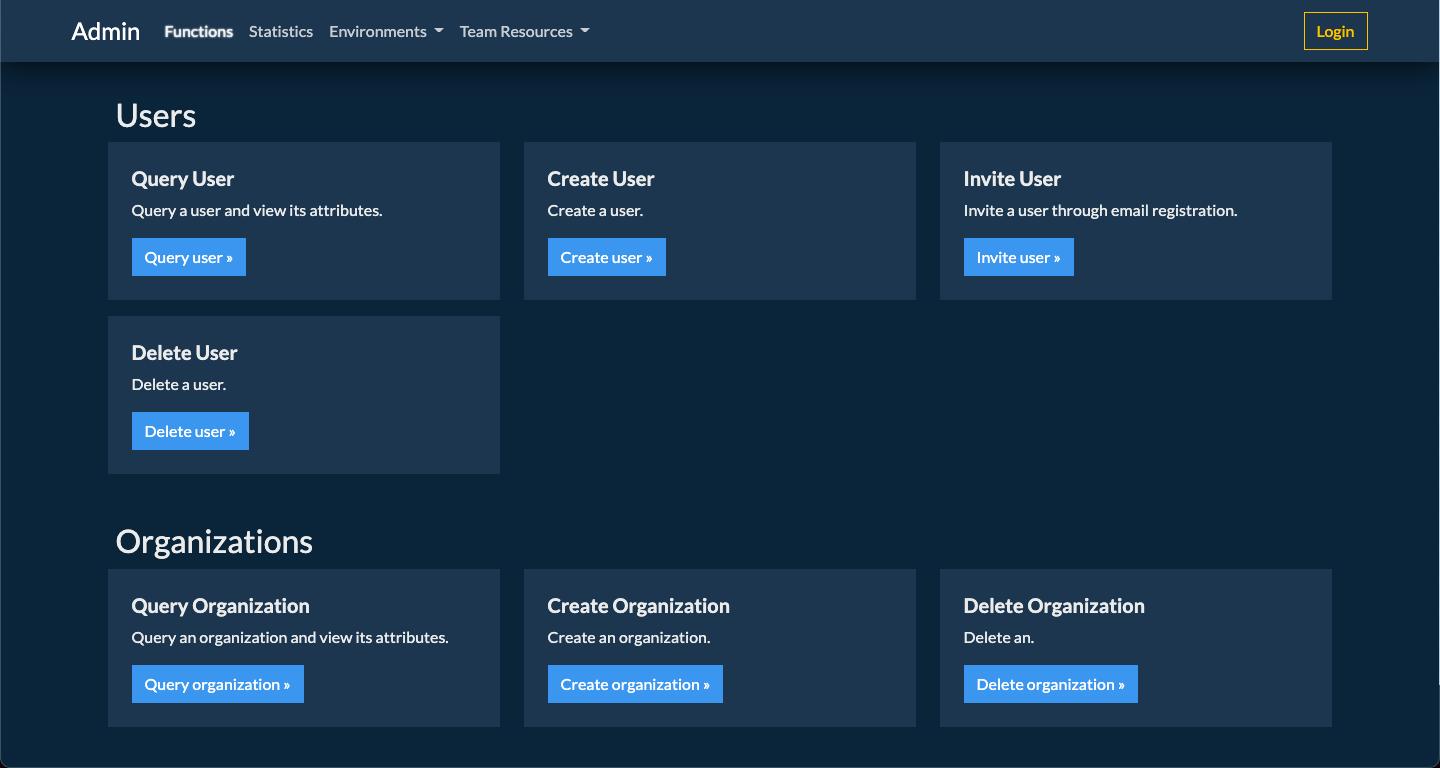
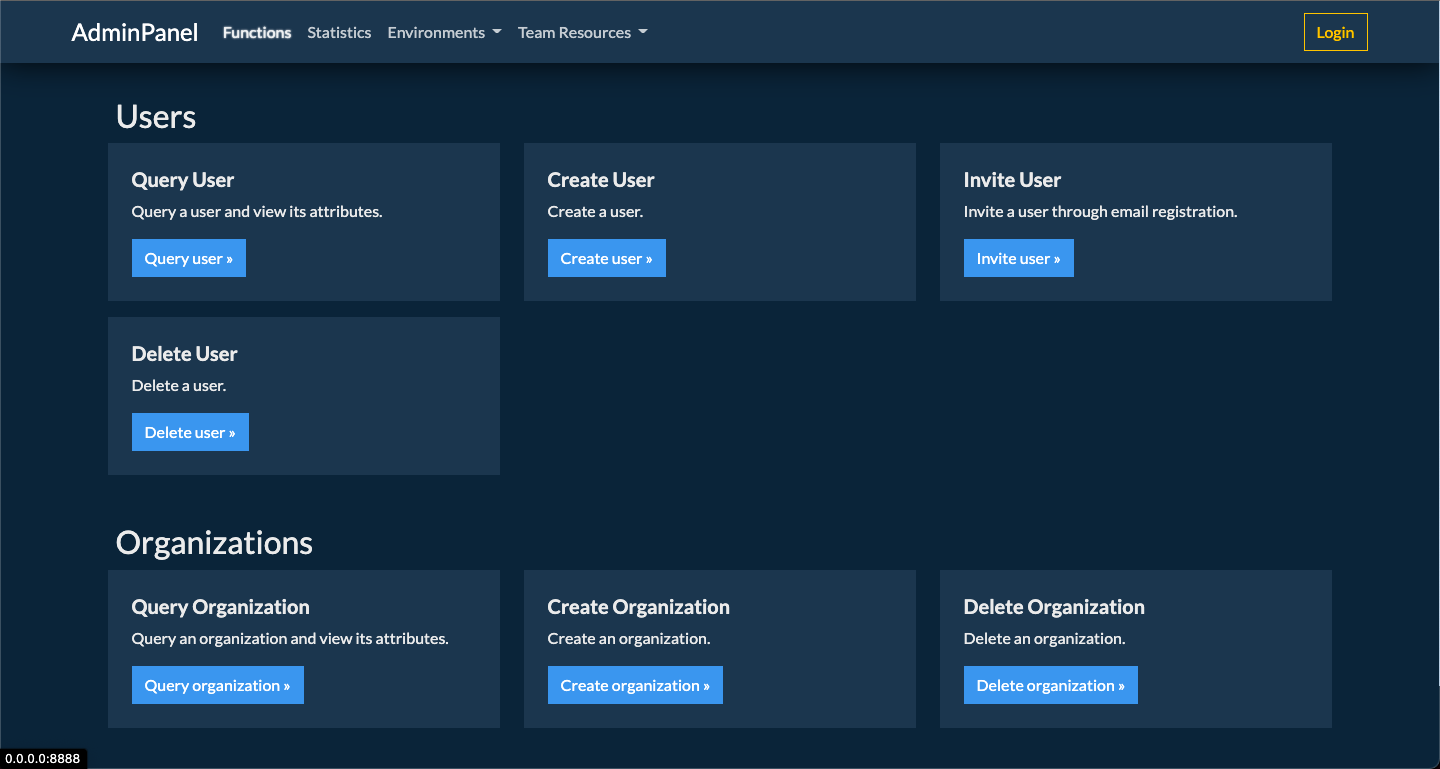
fix typos

diff --git a/templates/base.html b/templates/base.html
@@ -5,7 +5,7 @@
     <meta name="viewport" content="width=device-width, initial-scale=1">
     <meta name="description" content="ools">
     <meta name="author" content="github.com/mijolabs">
-    <title>UbiAdmin | {% block title %}{% endblock %}</title>
+    <title>AdminPanel | {% block title %}{% endblock %}</title>
 
     {# Unpoly 2.5.1 #}
     <link href="{{ url_for('static', path='/css/unpoly.min.css') }}" rel="stylesheet">

diff --git a/templates/navbar.html b/templates/navbar.html
@@ -10,7 +10,7 @@
     up-easing="cubic-bezier(.36,1.01,.32,1.27)"
     up-duration="500"
     >
-    Admin
+    AdminPanel
     </a>
     <button class="navbar-toggler" type="button" data-bs-toggle="collapse" data-bs-target="#navbarSupportedContent" aria-controls="navbarSupportedContent" aria-expanded="false" aria-label="Toggle navigation">
       <span class="navbar-toggler-icon"></span>
